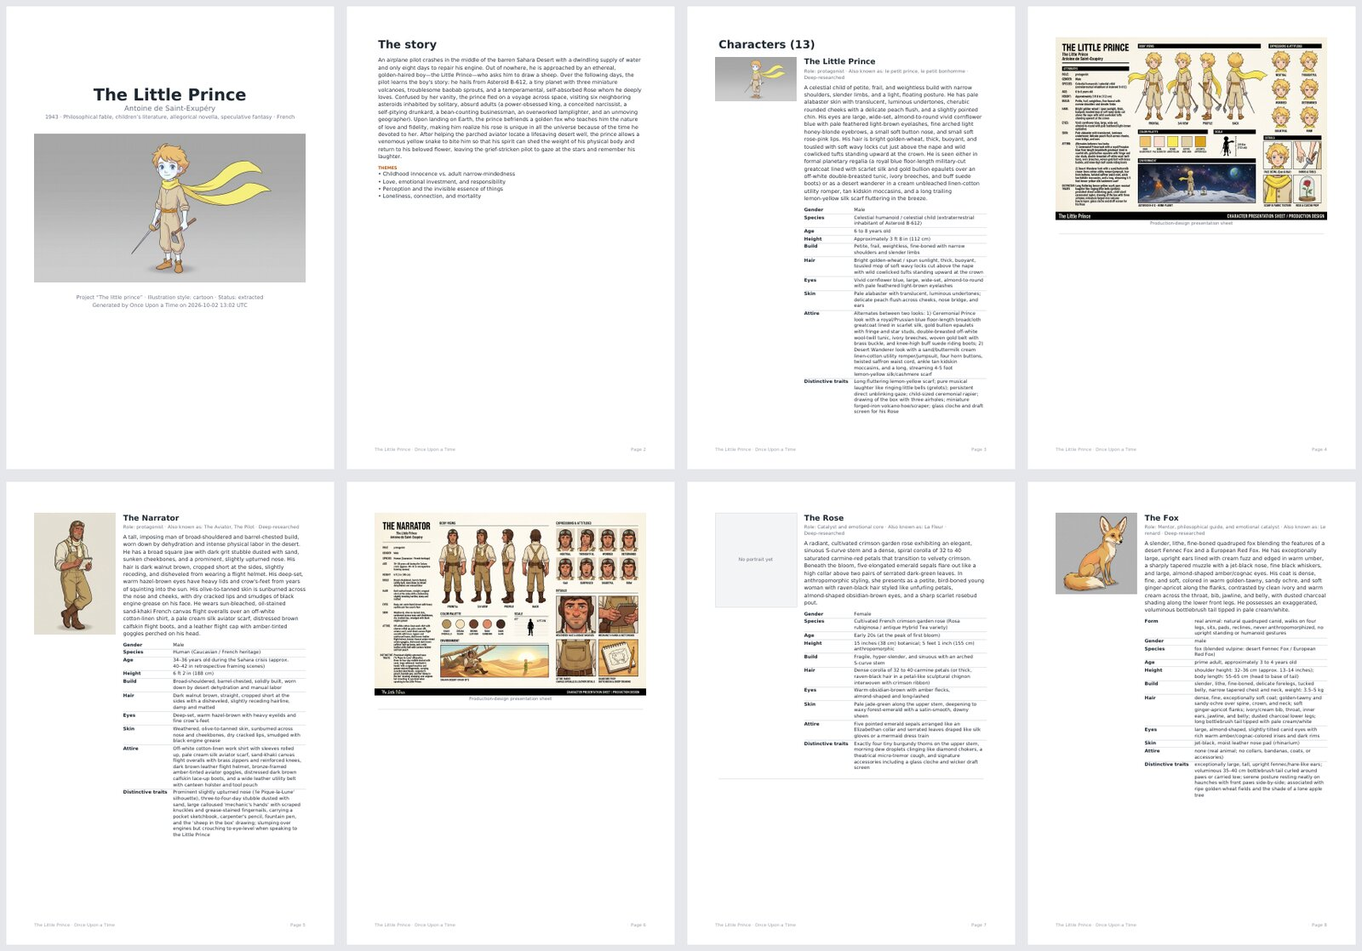
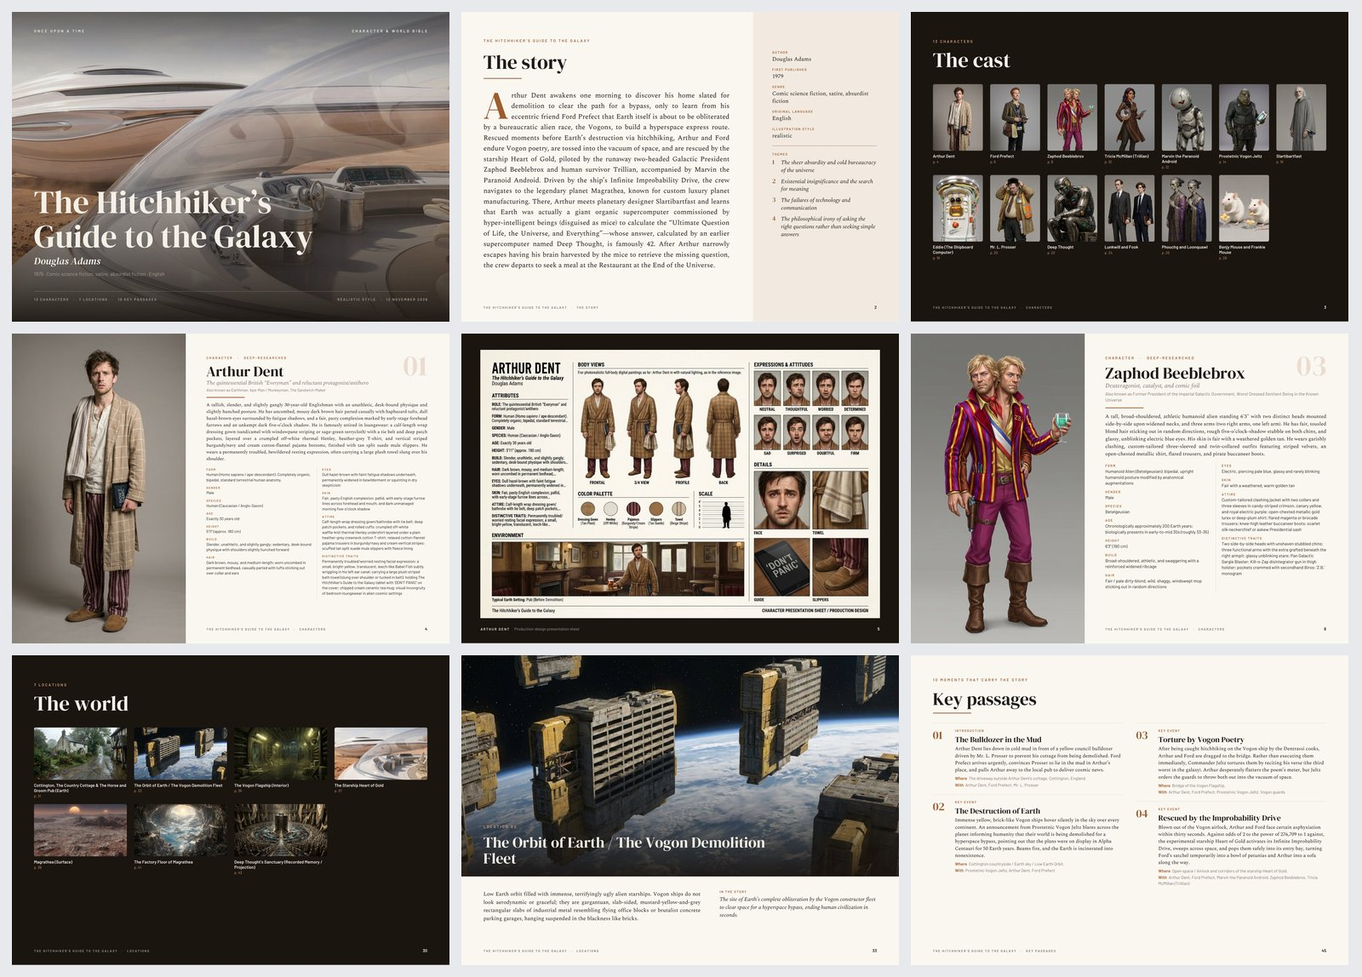
Document the art-book PDF and add a script for its sample images
- README: a section showing the exported book
- User guide: export options, what each page shows, sample pages, tips
- Architecture: how the book is laid out, page by page, and pdf_kit.py
- Setup: fallback fonts, and what to do when CJK names print as boxes
- screenshots skill: pdf_samples.py rebuilds the sample-pdf-*.jpg images from
  an export, finding the pages by their text; the export capture now waits for
  the build to finish

diff --git a/.claude/skills/screenshots/scripts/pdf_samples.py b/.claude/skills/screenshots/scripts/pdf_samples.py
@@ -1,0 +1,119 @@
+#!/usr/bin/env python3
+"""Build the PDF sample images for the docs from a built export.
+
+    python3 .claude/skills/screenshots/scripts/pdf_samples.py projects/<slug>/exports/<file>.pdf --out /tmp/pdf-samples   # preview
+    python3 .claude/skills/screenshots/scripts/pdf_samples.py projects/<slug>/exports/<file>.pdf                          # writes docs/images/
+
+Produces three JPEGs, 1600 px wide:
+  sample-pdf-export.jpg     3x3 montage: cover, story, cast, a character and its sheet,
+                            another character, the world, a location, key passages
+  sample-pdf-character.jpg  one character page
+  sample-pdf-location.jpg   one location page
+
+Pages are found by their text, so the script follows the book wherever its sections land.
+Use an export of a fully illustrated project built with presentation sheets. Needs poppler
+(`pdftotext`, `pdftoppm`) and Pillow on the host.
+"""
+
+from __future__ import annotations
+
+import argparse
+import re
+import subprocess
+import sys
+import tempfile
+from pathlib import Path
+
+from PIL import Image
+
+ROOT = Path(__file__).resolve().parents[4]
+WIDTH = 1600
+GAP = 14
+BACKGROUND = (232, 233, 236)
+PLATE = re.compile(r"presentation sheet")
+
+
+def find_pages(pdf: Path) -> dict[str, list[int]]:
+    """1-based page numbers by role, read from the text of each page."""
+    text = subprocess.run(["pdftotext", str(pdf), "-"], capture_output=True, text=True, check=True).stdout
+    pages = text.split("\f")
+    roles: dict[str, list[int]] = {key: [] for key in ("story", "cast", "profile", "sheet", "world", "location", "passages")}
+    section = ""
+    for number, body in enumerate(pages, start=1):
+        if number == 1 or not body.strip():
+            continue
+        if "The cast" in body and not roles["cast"]:
+            roles["cast"].append(number)
+            section = "characters"
+        elif "The world" in body and not roles["world"]:
+            roles["world"].append(number)
+            section = "locations"
+        elif "Key passages" in body and not roles["passages"]:
+            roles["passages"].append(number)
+            section = "passages"
+        elif "The story" in body and not section:
+            roles["story"].append(number)
+        elif section == "characters":
+            if PLATE.search(body):
+                roles["sheet"].append(number)
+            # A profile carries its ordinal as a large numeral; continuation pages do not.
+            elif re.search(rf"\b{len(roles['profile']) + 1:02d}\b", body):
+                roles["profile"].append(number)
+        elif section == "locations" and not PLATE.search(body):
+            roles["location"].append(number)
+    return roles
+
+
+def render(pdf: Path, page: int, width: int, workdir: Path) -> Image.Image:
+    prefix = workdir / f"page-{page}"
+    subprocess.run(["pdftoppm", "-r", "150", "-png", "-f", str(page), "-l", str(page), "-singlefile", str(pdf), str(prefix)], check=True)
+    image = Image.open(prefix.with_suffix(".png")).convert("RGB")
+    return image.resize((width, round(image.height * width / image.width)), Image.Resampling.LANCZOS)
+
+
+def save(image: Image.Image, path: Path) -> None:
+    image.save(path, quality=85, optimize=True, progressive=True)
+    print(f"wrote {path}  {image.width}x{image.height}  {path.stat().st_size // 1024} KB")
+
+
+def main() -> None:
+    parser = argparse.ArgumentParser(description=__doc__, formatter_class=argparse.RawDescriptionHelpFormatter)
+    parser.add_argument("pdf", type=Path, help="a PDF built by the app's Export PDF panel")
+    parser.add_argument("--out", type=Path, default=ROOT / "docs" / "images")
+    parser.add_argument("--character", type=int, default=3, help="which character page to feature (1 = first)")
+    parser.add_argument("--location", type=int, default=2, help="which location page to feature (1 = first)")
+    args = parser.parse_args()
+
+    roles = find_pages(args.pdf)
+    missing = [key for key in ("story", "cast", "profile", "sheet", "world", "location", "passages") if not roles[key]]
+    if missing:
+        sys.exit(f"{args.pdf.name} has no page for: {', '.join(missing)}. Export a fully illustrated project with sheets.")
+
+    def pick(key: str, ordinal: int) -> int:
+        return roles[key][min(ordinal, len(roles[key])) - 1]
+
+    first_profile = roles["profile"][0]
+    character, location = pick("profile", args.character), pick("location", args.location)
+    montage = [
+        1, roles["story"][0], roles["cast"][0],
+        first_profile, next(page for page in roles["sheet"] if page > first_profile), character,
+        roles["world"][0], location, roles["passages"][0],
+    ]
+    print("pages:", {"montage": montage, "character": character, "location": location})
+
+    args.out.mkdir(parents=True, exist_ok=True)
+    with tempfile.TemporaryDirectory() as tmp:
+        workdir = Path(tmp)
+        tile_w = (WIDTH - GAP * 4) // 3
+        tiles = [render(args.pdf, page, tile_w, workdir) for page in montage]
+        tile_h = tiles[0].height
+        sheet = Image.new("RGB", (WIDTH, 3 * tile_h + 4 * GAP), BACKGROUND)
+        for index, tile in enumerate(tiles):
+            sheet.paste(tile, (GAP + (index % 3) * (tile_w + GAP), GAP + (index // 3) * (tile_h + GAP)))
+        save(sheet, args.out / "sample-pdf-export.jpg")
+        save(render(args.pdf, character, WIDTH, workdir), args.out / "sample-pdf-character.jpg")
+        save(render(args.pdf, location, WIDTH, workdir), args.out / "sample-pdf-location.jpg")
+
+
+if __name__ == "__main__":
+    main()

diff --git a/.claude/skills/screenshots/scripts/capture.py b/.claude/skills/screenshots/scripts/capture.py
@@ -105,7 +105,15 @@ def main() -> None:
                 page.get_by_text("📄 Export PDF").click()
                 settle(page, 1500)
                 page.get_by_role("button", name="Build PDF").click()
-                settle(page, 6000)
+                # A fully illustrated book takes several seconds to build: wait for the
+                # spinner to come and go, then for the viewer to render the cover.
+                spinner = page.get_by_text("Building PDF…")
+                try:
+                    spinner.wait_for(state="visible", timeout=5_000)
+                except Exception:  # a small project can finish before the spinner shows
+                    pass
+                spinner.wait_for(state="hidden", timeout=120_000)
+                settle(page, 5000)
                 shot(page, "export")
 
         browser.close()

diff --git a/docs/architecture.md b/docs/architecture.md
@@ -39,7 +39,8 @@ app/ui/workspace.py ──► app/core/ingestion.py ──┤
 | `core/local_image.py`  | HTTP client for the optional `local-image` Compose service. `generate_image` has the contract of `gemini.generate_image` plus `negative_prompt` and `size`; calls are logged as `<model>-local` at $0. `health` (cached for UI reruns, failures included) and `describe` feed the Settings panel. |
 | `local_image/server.py` | FastAPI server around the diffusers pipeline of Qwen-Image-2.1, in its own container (`gpu` profile). Lifecycle `checking → downloading → idle ⇄ loading → ready`, plus `unsupported` and `error`; unloads the model after `LOCAL_IMAGE_IDLE_MINUTES`. See [Local GPU images](local-gpu-evaluation.md). |
 | `core/projects.py`     | Project folder tree, `project.json` read/write, slugs, create/delete. |
-| `core/export.py`       | ReportLab PDF of the current project state: cover, summary, characters (portrait, attributes, sheet), locations, passages, research sources. Images are re-encoded as bounded JPEGs so a full book exports to a few MB. Uses DejaVu Sans (installed in the image) for Unicode. |
+| `core/export.py`       | ReportLab PDF of the current project state, laid out as a landscape art book: cover, story, index pages, one page per character and location plus their sheets as full-page plates, passages, research sources. `export_project_pdf` builds it; `cover_choices` lists the locations that can go on the cover. |
+| `core/pdf_kit.py`      | What the export is built from, with no knowledge of projects: the bundled fonts (`app/assets/fonts`) and the system fallback fonts, a `Theme` derived from the artwork's dominant hue, `Artwork` (crops, shades and re-encodes images as bounded JPEGs, cached), and the custom flowables (hand-painted pages, letter-spaced labels, drop caps). |
 | `core/thumbnails.py`   | Pillow collage (up to four square tiles) of a project's portraits and locations for the home page, cached as `images/thumbnail-<key>.jpg` and rebuilt when the source images change. |
 | `core/usage.py`        | Appends one JSON line per call with token counts and an estimated cost from the `PRICING` table; `project_context` attributes calls to a project; summaries and breakdowns for the UI. |
 
@@ -121,13 +122,50 @@ buttons loop with a progress bar and collect failures per item.
 
 ### PDF export
 
-`export.export_project_pdf(project, include_sheets, include_sources)` reads the same JSON
-and PNG files the tabs read and lays them out with ReportLab Platypus (A4, footer with
-page numbers). Entities without images get a placeholder box, so a half-illustrated project
-exports fine. Character and location rows are tables built with `splitInRow=1` so a long
-sheet continues on the next page instead of raising a `LayoutError`. The sidebar panel stores
-the resulting path in `st.session_state`, opens it in an inline viewer (`st.pdf`, which needs
-the `streamlit-pdf` package) and offers it through `st.download_button`.
+`export.export_project_pdf(project, include_sheets, include_sources, cover)` reads the same JSON
+and PNG files the tabs read and lays them out with ReportLab as an A4 landscape art book: the
+format fits every image the app produces (3:2 sheets, 16:9 establishing shots, and upright
+portraits that fill the page height).
+
+| Pages                 | Built by (`_Book` in `export.py`)                       | Page template                     |
+|-----------------------|---------------------------------------------------------|-----------------------------------|
+| Cover                 | `_paint_cover`                                          | `full`                            |
+| The story             | `_story_units`, side panel by `_paint_story_side`       | `story`, continues on `text`      |
+| The cast, the world   | `_index_units`: `_paint_index`, or `_paint_contents` when nothing has an image | `full`     |
+| Character             | `_profile`, portrait by `_paint_profile_backdrop`       | `profile`, continues on `text`    |
+| Sheet plate           | `_paint_plate`                                          | `full`                            |
+| Location              | `_paint_location`                                       | `full`                            |
+| Key passages          | `_passage_units`                                        | `cols2_first`, then `cols2`       |
+| Research sources      | `_source_units`                                         | `cols4_first`, then `cols4`       |
+
+All measurements are constants at the top of `export.py`.
+
+- **Two kinds of page.** Pages that are mostly artwork (cover, index pages, locations, sheet
+  plates) are painted directly on the canvas by a `Paint` flowable that claims the whole page.
+  Pages that are mostly text (the story, character profiles, passages, sources) flow through
+  Platypus frames, with a zero-sized `Paint` behind them for the portrait or side panel.
+- **Fitting text.** A profile is measured before it is placed and set at the first type scale
+  (`FIT_SCALES`) at which it sits beside the portrait; one that is too long even at the smallest
+  scale continues on a plain page, and so does a long story summary. Location pages give the
+  image whatever height the text leaves, down to a minimum, and then shrink the text. Tables
+  that may outgrow a page are built with `splitInRow=1`, so long input never raises a
+  `LayoutError`.
+- **Images.** `pdf_kit.Artwork` crops to the slot, bakes a gradient under any text drawn over the
+  image, trims black bars baked into an establishing shot, and re-encodes as bounded JPEG. Square
+  or wide portraits are not cropped to the tall panel: their studio backdrop is extended instead.
+- **Palette.** The accent, tint and dark page colour come from the dominant hue of the cover
+  image, adjusted until labels meet a contrast ratio; greyscale artwork gets a warm default.
+- **Fonts.** DM Serif Display, Spectral and Barlow are bundled under `app/assets/fonts` (SIL OFL).
+  Characters they lack are set in a system font when one has the glyph: DejaVu Sans, then
+  WenQuanYi Micro Hei for CJK (both installed by the `Dockerfile`).
+- **Navigation.** The document is built twice: the first pass records the page of every character
+  and location, the second prints those numbers on the index pages. Tiles link to their pages
+  and the PDF outline lists every entity.
+- **Partial projects.** Without an establishing shot the cover lines up the first portraits;
+  without any image the index pages become a table of contents and portraits become initials.
+
+The sidebar panel stores the resulting path in `st.session_state`, opens it in an inline viewer
+(`st.pdf`, which needs the `streamlit-pdf` package) and offers it through `st.download_button`.
 
 ## Deliberate differences from the spec
 

diff --git a/docs/usage.md b/docs/usage.md
@@ -44,6 +44,8 @@ far (character portraits first, then locations), rebuilt automatically whenever 
 4. **Locations** works the same way: an establishing shot, then an environment sheet.
 5. **Passages** lists the key moments with their cast and place. Scene illustration is planned.
 6. **Gallery** shows every image in the project.
+7. **📄 Export PDF** in the sidebar turns the project into an art book whenever you want one; see
+   [Exporting a PDF](#exporting-a-pdf).
 
 ## Correcting a character with author's notes
 
@@ -63,19 +65,55 @@ regenerate the portrait, then the sheet. The card warns while the portrait is ol
 
 ## Exporting a PDF
 
-Open **📄 Export PDF** in the sidebar, choose whether to include presentation sheets and research
-sources, and click **Build PDF**. The document contains a cover, the story summary and themes, every
-character (portrait, attributes, author's notes, sheet), locations, key passages and an appendix of
-sources with links. Entities without images are listed as text, so you can export at any point.
+Open **📄 Export PDF** in the sidebar and click **Build PDF**. The project comes out as a landscape
+art book, made to be read on screen and printable on A4.
 
 ![Export PDF](images/ui-export.png)
 
+| Option | What it does |
+|--------|--------------|
+| **Include presentation sheets** | Adds every character and location sheet as a full-page plate. Without them the same book has about half the pages and a third of the size. |
+| **Include research sources** | Adds the appendix of web sources, grouped by character. |
+| **Cover image** | Which location goes on the cover. *Automatic* takes the most colourful establishing shot. The option appears once a location has an image. |
+
 The finished document opens in a viewer in the main area, where you can page through it, and
 the sidebar keeps **👁 Open PDF** and **⬇ Download PDF** buttons for the latest export. Files are
-saved under `projects/<slug>/exports/` with a timestamp. A 13-character book exports to about
-2 MB in under a second; no API calls are made.
+saved under `projects/<slug>/exports/` with a timestamp and are never overwritten.
+
+### What is in the book
+
+| Pages | What they show |
+|-------|----------------|
+| Cover | The title over an establishing shot, with the author, the genre and what the book holds. |
+| The story | The summary, with the book facts and themes in a side panel. |
+| The cast, the world | One thumbnail per character and per location, with its page number. Each one is a link. |
+| Characters | The portrait at full page height beside the role, the description, every attribute of the sheet and your author's notes. The presentation sheet follows as a full-page plate. |
+| Locations | The establishing shot across the page over its description and its place in the story, then the environment sheet. |
+| Key passages | The key moments in order, each with its type, summary, place and cast. |
+| Research sources | The web sources behind the book and each character, as links. |
 
 ![PDF export preview](images/sample-pdf-export.jpg)
+
+| A character | A location |
+|---|---|
+| ![Character page](images/sample-pdf-character.jpg) | ![Location page](images/sample-pdf-location.jpg) |
+
+### Good to know
+
+- **Each book has its own palette.** The accent colour and the dark pages are derived from the
+  cover image, so changing the cover changes the look of the whole book.
+- **You can export at any point.** Before any location is illustrated the cover lines up the first
+  portraits; a character without a portrait gets its initials; a project with no images at all
+  gets a table of contents instead of thumbnails.
+- **Long texts are kept whole.** A character page sets its text slightly smaller to fit beside the
+  portrait, and continues on the next page if that is not enough.
+- **It is easy to move around.** Besides the linked thumbnails, the PDF outline (the bookmarks
+  panel of your viewer) lists every character and location.
+- **Names in other scripts.** Cyrillic, Greek, Chinese, Japanese and Korean are drawn with fallback
+  fonts that the Docker image installs; see [setup](setup.md#troubleshooting) if they show as
+  empty boxes.
+- **Size and time.** A fully illustrated 13-character book (48 pages with every sheet) is about
+  14 MB and takes a few seconds; no API calls are made.
 
 ## Costs
 

diff --git a/.claude/skills/screenshots/SKILL.md b/.claude/skills/screenshots/SKILL.md
@@ -50,13 +50,33 @@ The README shows only sample outputs (`sample-*.jpg`); UI screenshots are linked
 | `docs/images/ui-gallery.png`          | Gallery tab                                | project with images      |
 | `docs/images/ui-export.png`           | Sidebar Export PDF panel with download button | any project (builds a PDF) |
 | `docs/images/ui-notes.png`            | A character card with the author's notes expander open (element screenshot, not full page) | character with notes (The Rose) |
-| `docs/images/sample-pdf-export.jpg`   | Montage of the first PDF pages (`pdftoppm` + `montage`) | a built export |
+| `docs/images/sample-pdf-export.jpg`   | 3x3 montage of PDF pages: cover, story, cast, a character and its sheet, another character, the world, a location, passages (README and user guide) | `scripts/pdf_samples.py` |
+| `docs/images/sample-pdf-character.jpg`| One character page of the PDF              | `scripts/pdf_samples.py` |
+| `docs/images/sample-pdf-location.jpg` | One location page of the PDF               | `scripts/pdf_samples.py` |
 | `docs/images/sample-*.jpg`            | Generated outputs shown in the README (anchors, sheets) | copied from `projects/`, resized to 800/1600 px, JPEG q85 |
 | `docs/images/banner.jpg`              | README hero: title plus a lineup of anchor portraits across styles | `scripts/collage.py` |
 | `docs/images/cast-gallery.jpg`        | README 4x2 grid of captioned anchor portraits | `scripts/collage.py` |
 | `docs/images/locations.jpg`           | README strip of three captioned establishing shots | `scripts/collage.py` |
 | `docs/images/page-to-portrait.jpg`    | README "Why": researched details on paper cards, an arrow, and the anchor drawn from them | `scripts/collage.py` |
 | `docs/images/social-preview.jpg`      | Banner at 1280x640 for GitHub Settings > Social preview (not linked from the docs) | `scripts/collage.py` |
+
+### PDF samples
+
+After a change to the PDF layout (`app/core/export.py`, `app/core/pdf_kit.py`), rebuild the three
+`sample-pdf-*.jpg` images from an export of a fully illustrated project that includes the
+presentation sheets. The `export` capture above builds one, or use **Build PDF** in the app:
+
+```bash
+PDF=$(ls -t projects/<slug>/exports/*.pdf | head -1)
+python3 .claude/skills/screenshots/scripts/pdf_samples.py "$PDF" --out /tmp/pdf-samples   # preview, then Read the JPEGs
+python3 .claude/skills/screenshots/scripts/pdf_samples.py "$PDF"                          # publish into docs/images/
+```
+
+The script finds the pages by their text (cover, story, cast, profiles, sheets, the world,
+locations, passages), so it follows the book wherever the sections land; `--character N` and
+`--location N` choose which ones to feature. It needs poppler (`pdftotext`, `pdftoppm`) and
+Pillow on the host. Every `export` capture writes a new PDF into `projects/<slug>/exports/`;
+delete the ones you do not need.
 
 ### README banner and collages
 

diff --git a/docs/setup.md b/docs/setup.md
@@ -158,8 +158,9 @@ pip install -r requirements.txt
 streamlit run app/main.py
 ```
 
-The PDF export uses DejaVu Sans when it is installed (`fonts-dejavu-core` on Debian/Ubuntu) and
-falls back to Helvetica otherwise.
+The PDF export bundles its fonts under `app/assets/fonts`. For characters they lack it uses
+DejaVu Sans (Cyrillic, Greek, symbols) and WenQuanYi Micro Hei (Chinese, Japanese, Korean) when
+they are installed: `fonts-dejavu-core` and `fonts-wqy-microhei` on Debian/Ubuntu.
 
 The local GPU server, in its own environment:
 
@@ -214,6 +215,7 @@ Local GPU server (all optional):
 | 404 or "model not found" | The model name or location is wrong. Image models are usually served only from `global`. |
 | 429 `RESOURCE_EXHAUSTED` | You hit the per-minute token quota. Wait a minute and research one book at a time; failed characters can be retried with **Deep research** on their card. |
 | A portrait comes back empty | Usually the safety filter; the app already retries once. Reword the character with an author's note and regenerate. |
+| Names in Chinese, Japanese or Korean show as empty boxes in the PDF | The app image predates the fallback font. Rebuild it: `./launch.sh` does, or `docker compose up -d --build app`. |
 | "Permission denied" editing `projects/` or `data/` | Files written by a version that ran the container as root. Give them back to your user without sudo: `docker run --rm -v "$PWD/projects:/p" -v "$PWD/data:/d" alpine chown -R $(id -u):$(id -g) /p /d` |
 | You edited `config/.env` and nothing changed | Settings are loaded at start-up: `docker compose restart`, and `docker compose --profile gpu up -d local-image` for `LOCAL_IMAGE_*`. |
 | `launch.sh`: "Docker cannot use the GPU" | Install the NVIDIA Container Toolkit, run `sudo nvidia-ctk runtime configure --runtime=docker`, then `sudo systemctl restart docker`. |

diff --git a/README.md b/README.md
@@ -11,7 +11,7 @@ Turn any story into consistent illustrations of its characters, locations and ke
 
 Give it a book title. It researches the book, builds a validated cast, and generates studio-style
 character portraits and production-design sheets with Gemini, keeping every character the same
-across every image.
+across every image. When you are done, it binds the whole project into an art book.
 
 ## Why I built this
 
@@ -59,6 +59,16 @@ An establishing shot per location, then an environment sheet with views, moods, 
 
 ![The Ugly Duckling farmyard](docs/images/sample-location-sheet.jpg)
 
+## And a book at the end
+
+One click turns the project into a landscape art book: a cover, the story, the cast, a page for
+every character and location, their sheets as full-page plates, and the key passages. Its colours
+come from the cover artwork, so every book looks like itself.
+
+![Pages of the exported PDF](docs/images/sample-pdf-export.jpg)
+
+*The Hitchhiker's Guide to the Galaxy, exported as it stood: 48 pages.*
+
 ## What you get
 
 - **A researched cast.** Characters, locations and key passages gathered from the web and validated
@@ -70,7 +80,8 @@ An establishing shot per location, then an environment sheet with views, moods, 
 - **Eight styles.** Cartoon, realistic, retro, anime, watercolor, comic, pixel-art, noir.
 - **Cloud or your own GPU.** Images come from Gemini, or from an open model on an NVIDIA GPU with
   24 GB or more, at no cost per image.
-- **A PDF of the whole project**, and a running estimate of what every call cost.
+- **A book to keep.** The whole project as an art-book PDF, at any point, even half illustrated.
+- **Costs in view.** A running estimate of what every call cost.
 
 ## Try it
 

diff --git a/CLAUDE.md b/CLAUDE.md
@@ -22,6 +22,10 @@ view and `docs/architecture.md` for modules and data layout.
   the string `"undefined"`, never an invented value and never `null`.
 - Character identity comes from the anchor image: any new image of a character must pass
   the anchor as a reference image. Do not generate identity from text twice.
+- The PDF export is laid out in `app/core/export.py` from the parts in `app/core/pdf_kit.py`
+  (fonts, palette, image preparation, flowables). Its fonts are bundled under `app/assets/fonts`
+  with their OFL licences; fallback fonts for other scripts come from the `Dockerfile`. After a
+  layout change, export a fully illustrated project and one without images, and look at the pages.
 - `projects/`, `data/` and `config/.env` are user data and git-ignored. Never commit them and
   never put a real GCP project ID in `config/.env.example`.
 - When changing a model id (`GEMINI_*`), update `config/.env.example`, the defaults in
